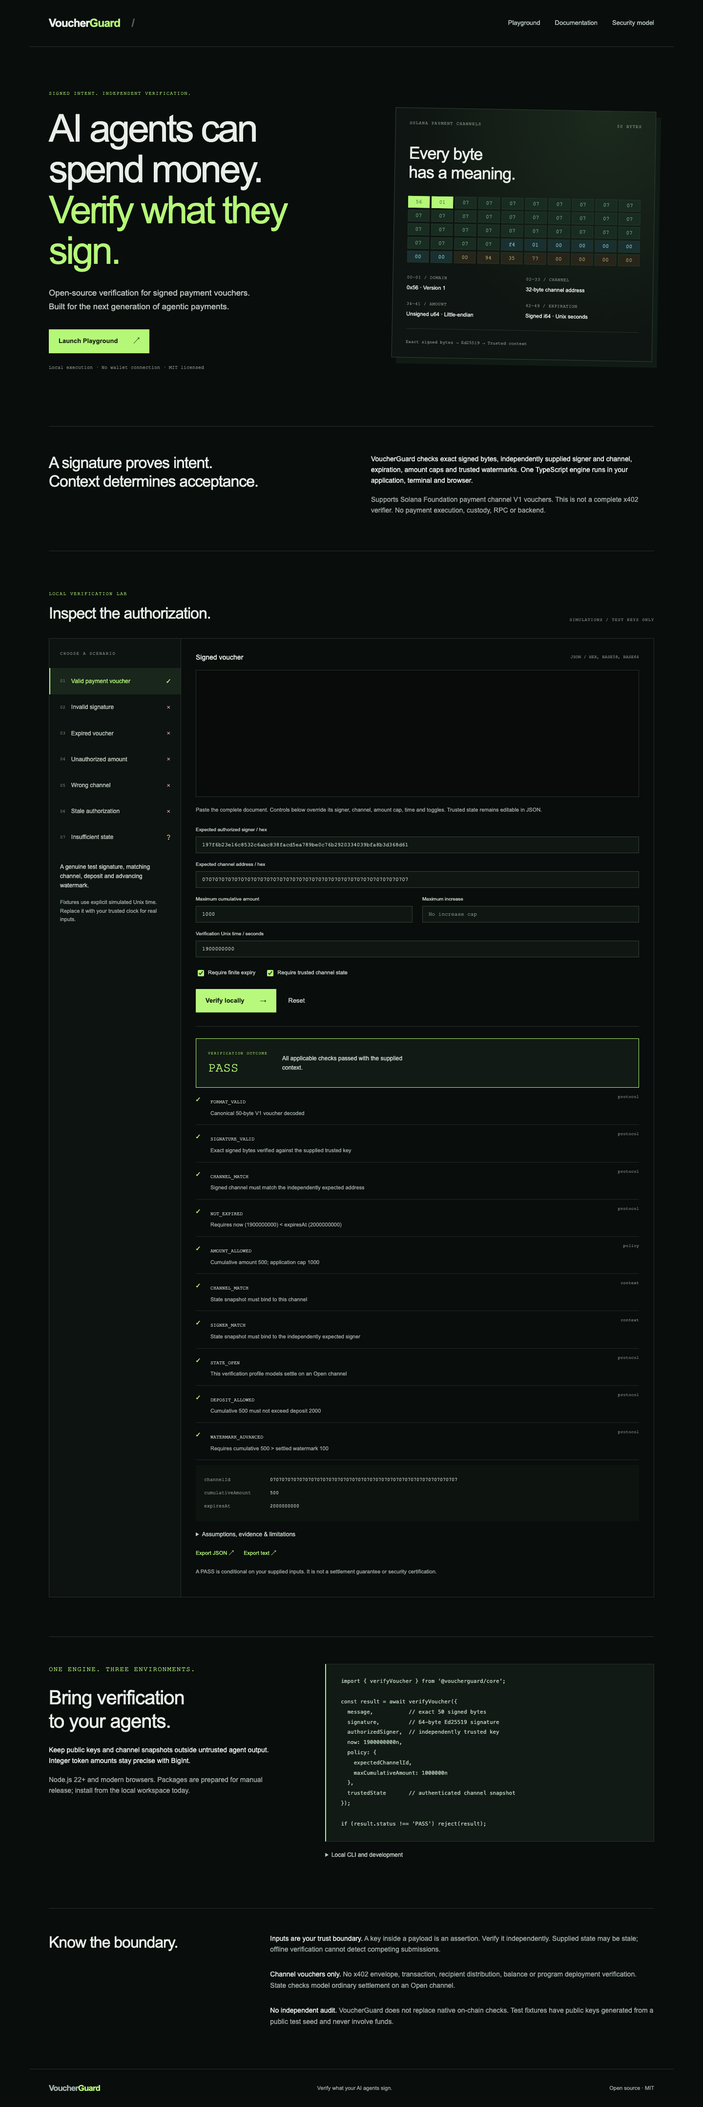
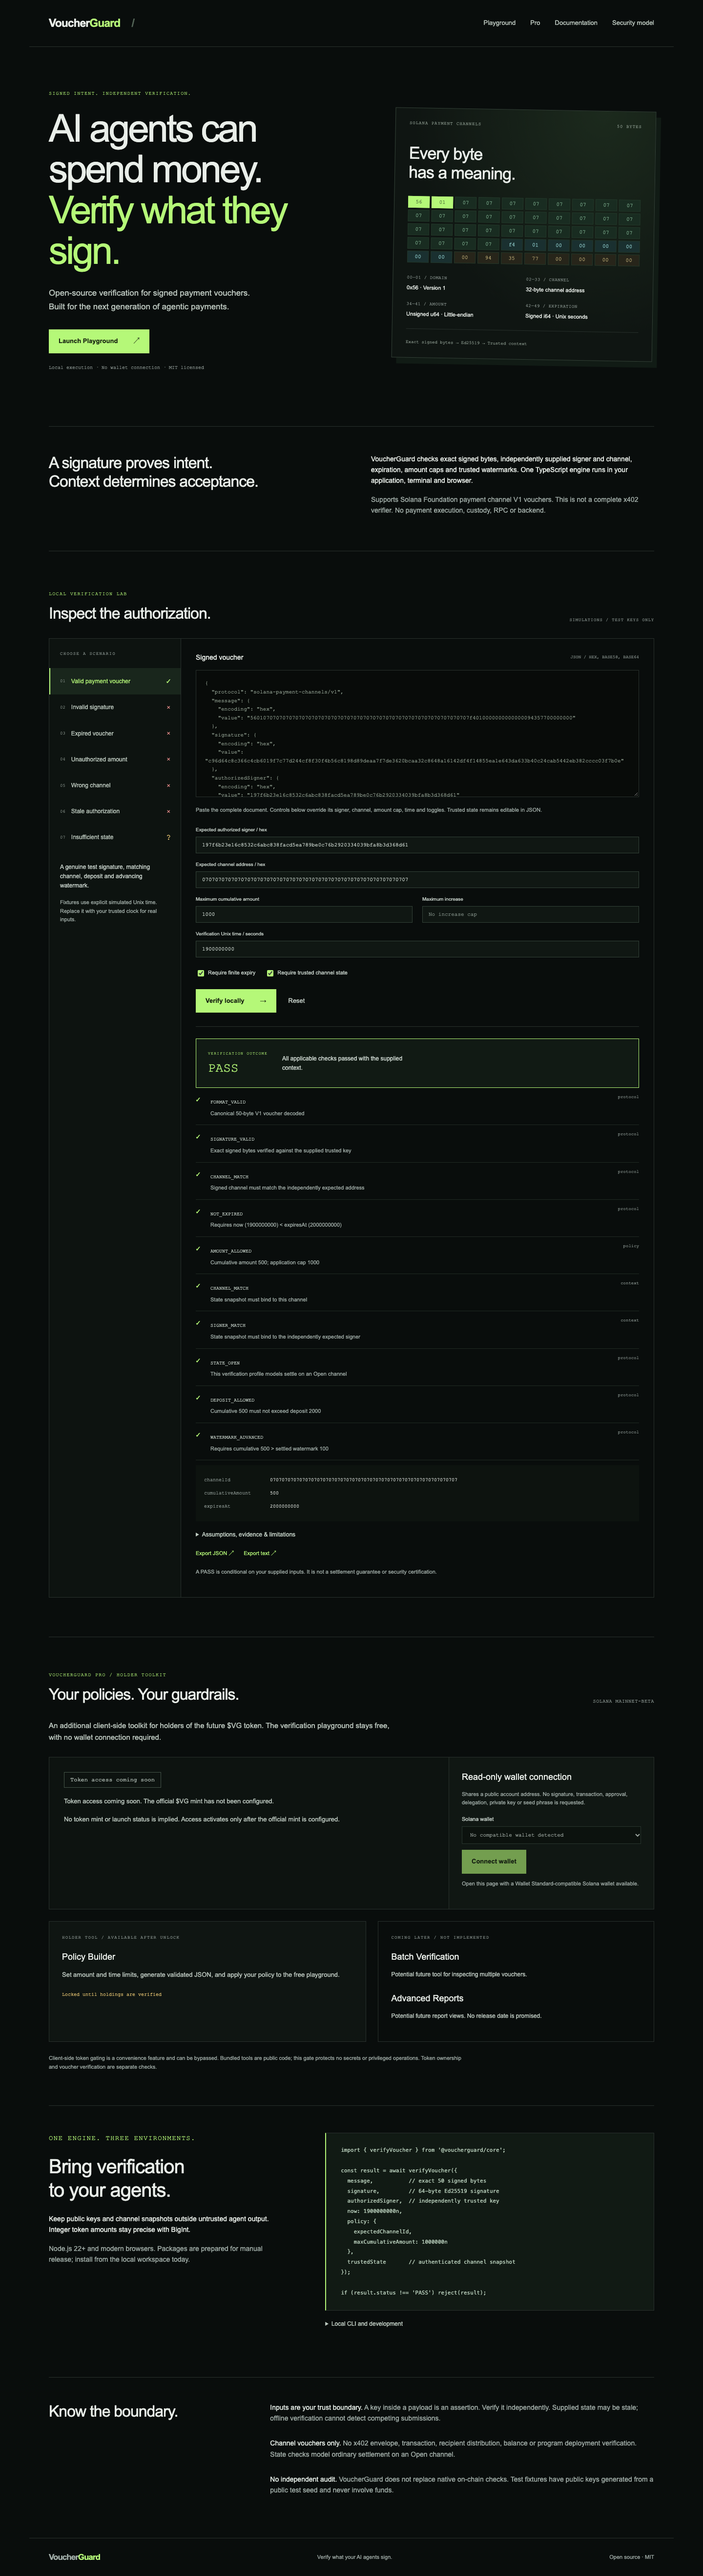
Document pre-launch activation and verified Pro policy-builder behavior

diff --git a/docs/pro.md b/docs/pro.md
@@ -1,0 +1,96 @@
+# VoucherGuard Pro
+
+Pro is an optional, client-side holder toolkit for the future **$VG** token on **Solana mainnet-beta**. The free voucher playground, core SDK and CLI keep their existing functionality and require no wallet or network. Pro has no backend, database, custody, token transfers, signing requests, subscriptions or paid APIs.
+
+## Pre-launch behavior
+
+The official mint is **unset by default**. Production shows **Token access coming soon** and the Policy Builder stays locked. Connecting a wallet does not grant eligibility. No mint, token launch, on-chain contract or holdings are invented.
+
+The code is complete and testable before a token exists. Tests inject a Wallet Standard wallet and intercept read-only RPC responses outside the application. The browser test harness creates a separate temporary production build with a TEST-ONLY configured mint. No wallet/balance fixture, development bypass or mock flag is bundled into the normal production application. Neither URL parameters nor missing configuration unlock Pro.
+
+## Read-only wallet integration
+
+Wallet discovery uses the maintained `@wallet-standard/app`, `@wallet-standard/base` and `@wallet-standard/features` packages. Compatible Solana wallets are discovered dynamically rather than through hard-coded browser globals. The integration requires Wallet Standard `standard:connect` and `standard:events` version 1.0.0. `standard:disconnect` is used when provided; otherwise the application clears its local session. No reconnection or account request is made automatically on page load.
+
+Connect obtains a public account only. The application never calls sign-message, sign-transaction, sign-and-send, approval or delegation features. A wallet can offer those capabilities; Pro does not use them. Account changes revoke the previous gate immediately and trigger a new read. Multiple authorized accounts can be selected. Disconnect clears access; unfinished connection and RPC results cannot restore it.
+
+Wallet accounts must expose a mainnet-supported chain (`solana:mainnet`), a 32-byte public key and a matching canonical base58 address. Wallet Standard reports supported account chains, not necessarily a wallet application's current visual network selector. The configured RPC's **full genesis hash** is independently checked against mainnet-beta; no wallet network-switch or signing flow is requested.
+
+This targets any compatible Wallet Standard Solana wallet. Local automated tests use injected providers; real Phantom/Solflare/Backpack extension sessions have not been exercised or certified by this change.
+
+## Eligibility algorithm
+
+The configured amount defaults to **one whole VG token**. Eligibility is based on visible raw token units, with no floating-point arithmetic:
+
+1. Refuse missing/invalid configuration, an absent wallet, or an account without mainnet support.
+2. Call `getGenesisHash` and require the full mainnet-beta genesis hash `5eykt4UsFv8P8NJdTREpY1vzqKqZKvdpKuc147dw2N9d` (not the shortened CAIP-2 reference).
+3. Fetch the configured mint with `getAccountInfo`, `jsonParsed`, at confirmed commitment. Require an initialized mint owned by either the legacy SPL Token Program or Token-2022 and obtain its integer decimals from chain data.
+4. Fetch `getTokenAccountsByOwner` for the connected owner and exact configured mint, with `minContextSlot` bound to the observed mint slot. The mint filter covers the program associated with that mint; querying both entire program namespaces is unnecessary.
+5. Validate each returned account's public key, uniqueness, program owner, parsed account type, token owner, exact mint, initialized/frozen state and decimals. Wrong or malformed data closes access rather than being trusted or counted twice.
+6. Sum the canonical u64 raw amount strings using BigInt. Convert the human threshold decimal string using the mint decimals, exactly. Ignore `uiAmount` and other floating-point/display approximations.
+7. Unlock only when the aggregate is at least the exact threshold. All RPC failures, unavailable data, malformed amounts or unsupported network responses keep the Builder locked.
+
+There are three sequential read-only RPC methods per successful check. Requests have an eight-second timeout each, use no credentials/referrer, and are canceled on identity/configuration changes. No timer polls balances. Rechecks occur on connection/account events and **Refresh access**. Rechecking temporarily closes the gate; unsent Builder draft values remain in local component memory and become available again after a successful check.
+
+Frozen accounts can count as ownership; this does not establish spendability. Confidential/unavailable amounts cannot prove a threshold. Token-2022 scaled display/interest-bearing UI amounts are not used: ownership is measured in the underlying raw units. These reads are not an atomic on-chain snapshot, a cryptographic state proof or a guarantee that holdings will remain after the check. The RPC provider is trusted to report accurate data.
+
+## Policy Builder
+
+Eligible users can edit:
+
+- Maximum cumulative amount and maximum authorized increase, in voucher token base units.
+- Finite-expiration requirement.
+- Minimum/maximum remaining validity, in seconds.
+- Requirement for trusted channel state.
+- Expected channel identifier, with explicit hex/base58/base64 encoding.
+
+The Builder validates through the core's exported `parsePolicyDocument` function, the same schema used by CLI and playground. It does not create a parallel verification engine or weaken protocol checks. Empty optional fields omit the corresponding application constraint. Integers are canonical decimal strings within the existing schema's range; negative, fractional, overflow and inverted time windows are rejected. Zero values remain valid where the core permits them.
+
+**Standard example** enables finite expiry and trusted state without inventing a spending ceiling. **Conservative example** adds demonstrative values (1,000,000 cumulative base units, 100,000 increase, 30–300 seconds remaining). These are editable examples, not universal safe limits or security guarantees; adjust to the actual voucher token's units and risk model. The VG holder threshold is unrelated to a voucher's token amount.
+
+Preview the generated JSON, copy it or download `voucherguard-policy.json`. **Apply to playground** replaces only the policy and updates corresponding visual policy controls. Signed message, signature, authorized signer, trusted state, explicit time and unrelated document fields are preserved. Applying an invalid policy or malformed voucher document is rejected before modification. Missing expected channel/state can still produce INDETERMINATE.
+
+Batch Verification and Advanced Reports are labeled **Coming later / not implemented**. They are not available in this implementation and have no promised release date.
+
+## Public configuration and activation
+
+Edit `apps/web/.env.local` locally or supply the following public environment variables to the build:
+
+```dotenv
+# Leave unset until the official $VG mainnet mint is independently confirmed.
+VITE_VG_TOKEN_MINT=
+VITE_VG_RPC_URL=https://api.mainnet-beta.solana.com
+VITE_VG_HOLDER_THRESHOLD=1
+VITE_VG_NETWORK=mainnet-beta
+```
+
+After launch:
+
+1. Independently confirm and review the official mainnet mint. Set `VITE_VG_TOKEN_MINT` to that exact address; never substitute a ticker, speculative mint or example fixture.
+2. Set a public, browser/CORS-compatible HTTPS RPC endpoint. The default Solana public endpoint is free but rate limited. No custom node, paid service or API subscription is required. These Vite variables are public; never add a privileged API key, credentials or secret.
+3. Set a positive decimal threshold, normally `1`. Precision must be supported by the mint decimals. No balances are approximated with floats.
+4. Run `pnpm check` and `pnpm test:browser`, inspect the static build, and rebuild/deploy through the existing manual GitHub Pages workflow. The Pages workflow passes **repository variables** `VG_TOKEN_MINT`, `VG_RPC_URL`, `VG_HOLDER_THRESHOLD`, `VG_NETWORK` into the public build. With no repository mint variable, the deployed gate stays coming-soon and locked.
+5. On the public site, connect an independently funded holder wallet, refresh and check the displayed configuration/status. Repeat with an ineligible wallet and a disconnected session. Do not assume a fixture test proves real token availability.
+
+The site remains static and supports the existing GitHub Pages subpath. There is no token issuance, smart contract, staking, payment, transfer or on-chain activation transaction in this project.
+
+## Limitations of client-side gating
+
+**This is a convenience/access feature, not secure authentication or protected IP.** The application ships its JavaScript to every visitor. A user can alter the browser state, supply a fake provider or run the open-source Builder directly. Connecting a public account without a signed challenge is not cryptographic proof that the visitor controls that key. No privileged APIs, secrets or exclusive intellectual property can depend on this gate.
+
+An eligible status is a report about supplied wallet identity and RPC data, not investment advice, token certification or a security audit. It does not alter the voucher engine's PASS / FAIL / INDETERMINATE semantics and does not prove settlement, available funds or replay prevention. Pro and the verifier remain unaudited.
+
+## Verification and test harness
+
+```sh
+pnpm install --frozen-lockfile
+pnpm check
+pnpm exec playwright install chromium
+pnpm test:browser
+```
+
+Unit tests mock ownership readers, raw RPC responses and Wallet Standard notifications. Browser tests inject a provider and intercepted RPC in isolated Playwright pages; these fixtures exist only under `tests/`. `scripts/pro-browser-server.mjs` builds a temporary TEST-ONLY configuration for those tests and serves static assets with Vite preview. It never enables a runtime development gate in production code. The ordinary production build remains unchanged by the harness and is separately tested with its default unset mint.
+
+Tests cover missing mint, disconnected/eligible/ineligible wallets, exact and multiple-account thresholds, both token programs, ownership/mint/program/decimals mismatches, incorrect network/genesis, configuration validation, RPC failures/recovery, stale-account response races, no signing, Builder validation/export/apply/reset, unchanged signed fields and the existing free workflow.
+
+Primary references: [Wallet Standard app API](https://github.com/wallet-standard/wallet-standard), [Solana getAccountInfo](https://solana.com/docs/rpc/http/getaccountinfo), [getTokenAccountsByOwner](https://solana.com/docs/rpc/http/gettokenaccountsbyowner), [Solana chain namespace](https://github.com/ChainAgnostic/namespaces/blob/main/solana/caip350.md).

diff --git a/docs/validation.md b/docs/validation.md
@@ -7,8 +7,8 @@ Local validation performed on 2026-10-08 using macOS arm64, Node.js v26.7.0 and 
 - `pnpm typecheck`: strict TypeScript across core, CLI, web, fixtures and tests.
 - `pnpm lint`: Biome, with no errors or warnings. CSS descending-specificity lint is disabled because independent component selectors do not cascade onto the same elements; other recommended rules remain enabled.
 - `pnpm build`: core ESM/declarations, CLI ESM/declarations, static Vite production site.
-- `pnpm test`: **112 tests passed**, 98 engine/schema/fixture tests and 14 CLI tests.
-- `pnpm test:browser`: **2 real Chromium integration tests passed**, including all seven scenarios with exact SDK/browser report equality, offline verification after asset load, JSON/text export, editing invalidates results, reset, malformed payload rejection, missing signer, keyboard invocation, mobile width and a GitHub Pages project subpath.
+- `pnpm test`: **184 tests passed**: 98 engine/schema/fixture tests, 14 CLI tests, 67 Pro eligibility/policy tests and 5 read-only wallet-controller tests.
+- `pnpm test:browser`: **10 real Chromium integration tests passed**, including all seven scenarios with exact SDK/browser report equality, offline verification after asset load, JSON/text export, editing invalidates results, reset, malformed payload rejection, missing signer, keyboard invocation, mobile width and a GitHub Pages project subpath.
 - `node examples/node-integration.mjs`: PASS with genuine signed public fixture and separately defined simulation context.
 - CLI with independent policy/state files: PASS; workspace CLI invocation also succeeds.
 - Core/CLI package tarball generation: compiled exports/declarations and package metadata inspected. Packages include the MIT license and package README. No npm publication performed.
@@ -23,3 +23,9 @@ A Rollup warning about a pure annotation in upstream `@scure/base` is emitted du
 Local automated checks are not an independent security audit. Chromium was tested; no real on-chain settlement, RPC, wallet, npm registry publication or remote CI/deployment was exercised. Node.js 22 compatibility is targeted by package engines and CI configuration, but the local execution host used Node.js 26.7.0. Exhaustive Solana precompile consensus equivalence for exotic Ed25519 encodings is not established.
 
 PNG report export is not implemented (optional feature). No cloud services or production publication were used. All GitHub ownership configuration points exclusively to cg1290-tech. Publication uses the browser session authenticated as that account. Remote CI/deployment results must be checked separately from these local results.
+
+## Pro feature validation (2026-10-08)
+
+The Pro branch additionally verifies pre-launch closed access even with a connected fixture wallet, exact holder threshold and multi-account aggregation, both token programs, wrong ownership/mint/program/decimals, full mainnet genesis validation, RPC failure/recovery, account switches and delayed-response races. Builder tests cover input validation, clipboard/JSON downloads, presets/reset and applying policy without changing signed fields. A test scans the normal production bundle for fixture markers and proves an unset mint never sends ownership RPC calls or unlocks the Builder.
+
+The browser harness builds a separate temporary production configuration and injects wallet/RPC mocks from tests. No real mint has been configured, no token was launched, and no real wallet approval or transaction was requested. UI snapshots `pro-policy-builder-test.png` and `pro-coming-soon.png` are labeled through the fixture wallet; they are simulations.

diff --git a/docs/api.md b/docs/api.md
@@ -1,6 +1,6 @@
 # API and document schema
 
-The core entry point is `@voucherguard/core`, ESM only. Types are emitted in `packages/core/dist`. Public exports: `PROTOCOL`, `UPSTREAM_COMMIT`, `U64_MAX`, `VoucherError`, `encodeVoucher`, `decodeVoucher`, `encodeBytes`, `decodeBytes`, `verifyVoucher`, `parseVoucherDocument`, `serializeReport`, `formatReport`, and associated TypeScript interfaces.
+The core entry point is `@voucherguard/core`, ESM only. Types are emitted in `packages/core/dist`. Public exports: `PROTOCOL`, `UPSTREAM_COMMIT`, `U64_MAX`, `VoucherError`, `encodeVoucher`, `decodeVoucher`, `encodeBytes`, `decodeBytes`, `verifyVoucher`, `parseVoucherDocument`, `parsePolicyDocument`, `serializeReport`, `formatReport`, and associated TypeScript interfaces.
 
 ## Binary APIs
 
@@ -96,3 +96,7 @@ Reason codes are defined by the exported `ReasonCode` union. A check category is
 The placeholders above describe the schema; [../examples/valid.json](../examples/valid.json) is a working signed fixture. Encoded fields can independently choose hex, base64 or base58. Authorizer, time, policy and state are optional at the document level, but missing context affects verification. Raw `message`/`signature` are mandatory.
 
 Never elevate the document's signer or state into trusted context just because the schema parses successfully.
+
+## Standalone policy parsing
+
+`parsePolicyDocument(value: unknown): Policy` validates the exact policy JSON schema above without a voucher or cryptographic check. The exported `PolicyDocument` interface represents encoded channel bytes and decimal strings. The document adapter delegates to this same function; the Pro Builder reuses it. No Wallet Standard or Solana RPC dependencies enter the core package.
